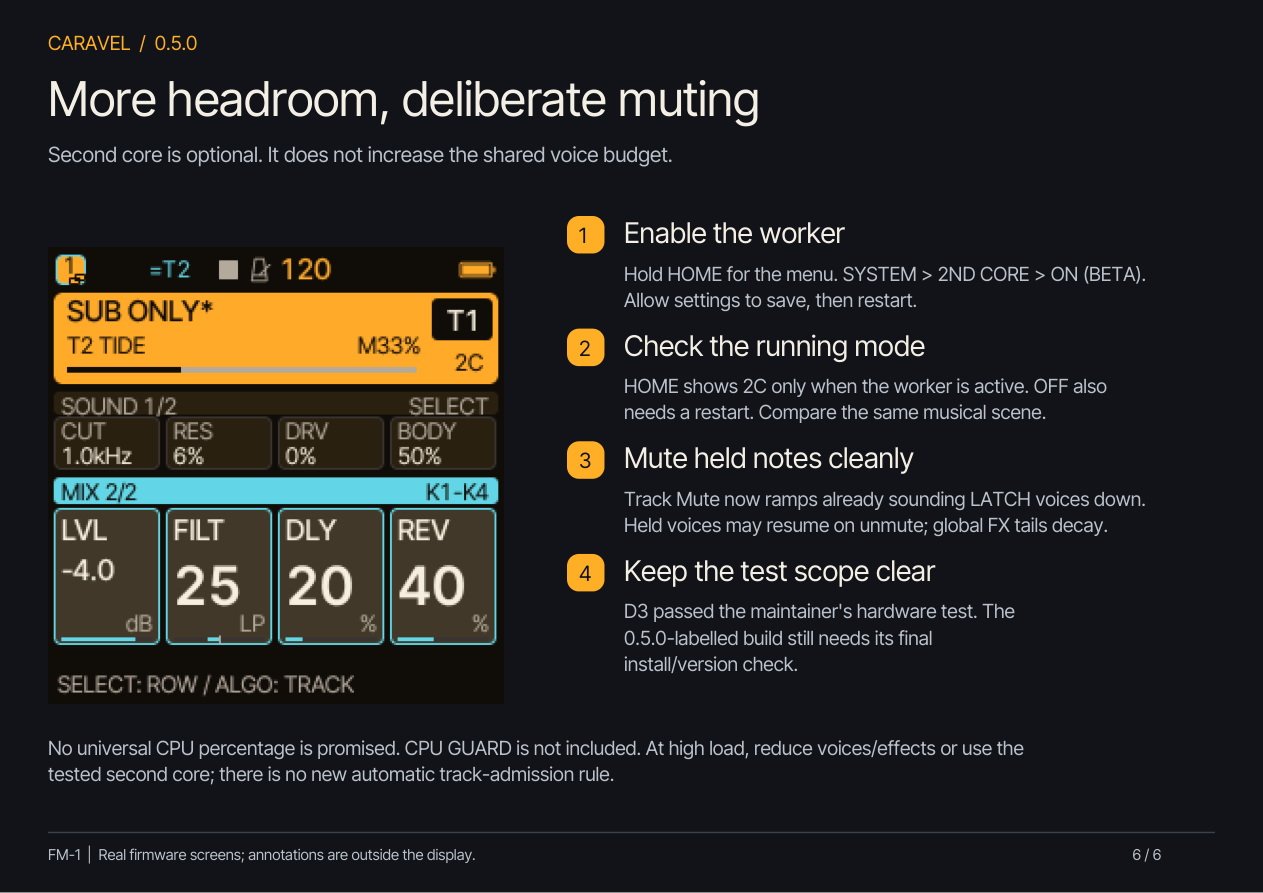
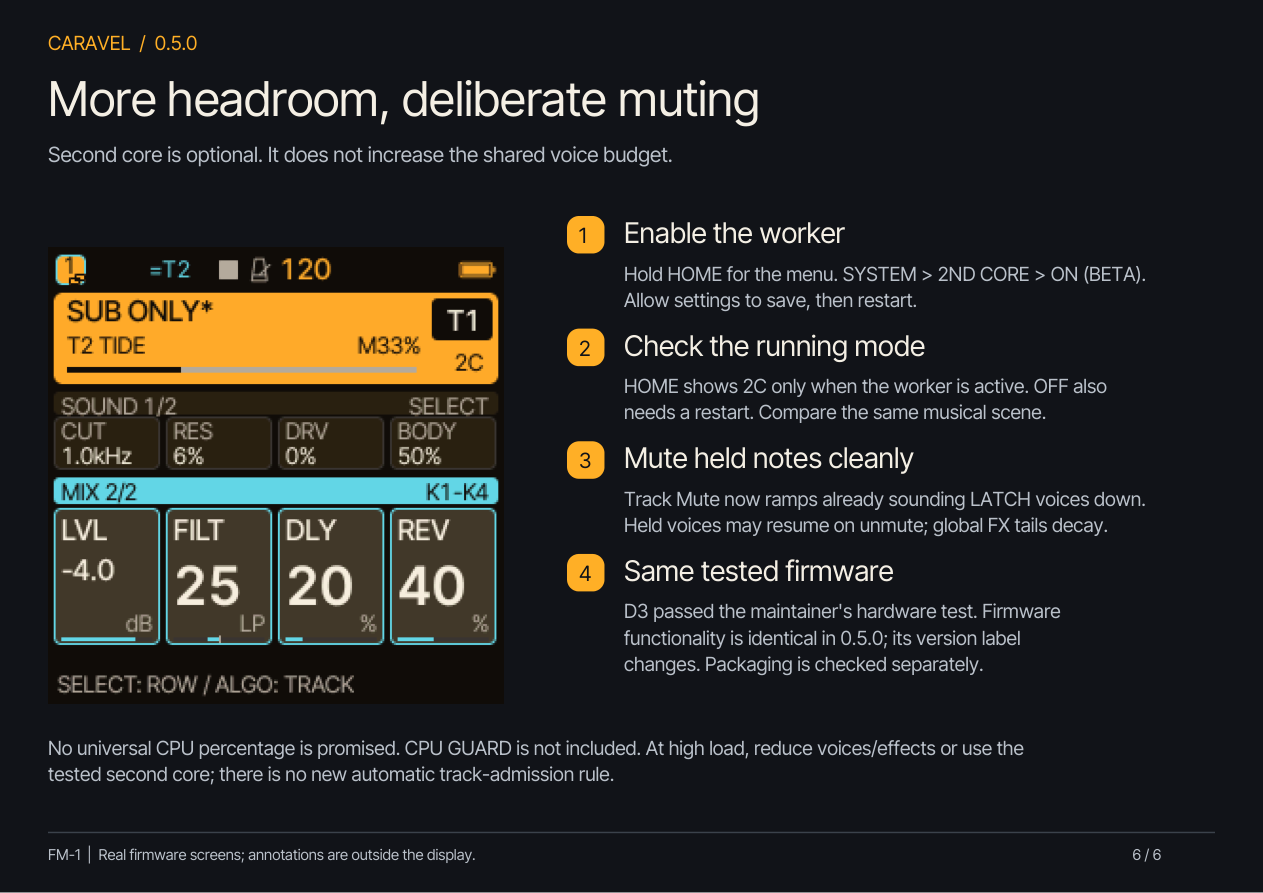
Finalize 0.5.0 release documentation and add DRONE showcase beside SEM and HADES

Changed region(s): [[0.4941, 0.6652, 0.8337, 0.7559], [0.4941, 0.6047, 0.7411, 0.6652]]

diff --git a/README.md b/README.md
@@ -2,11 +2,9 @@
 
 [![License: GPL-3.0-only](https://img.shields.io/badge/license-GPL--3.0--only-blue.svg)](LICENSE)
 
-Multi-engine synthesizer firmware for the M-VAVE FM-1, **version 0.5.0 in preparation** (latest public release: 0.3.3).
+Multi-engine synthesizer firmware for the M-VAVE FM-1, **version 0.5.0**.
 
 **[Web installer](https://bonszaimusic.github.io/caravel/webapp/installer/)** · **[Browser emulator](https://bonszaimusic.github.io/caravel/emulator/)** · **[Web editor](https://bonszaimusic.github.io/caravel/webapp/editor/)**
-
-These links become available after the first successful GitHub Pages deployment.
 
 Caravel is a fork of **Felucca 1.6.1** by Leo Kuroshita ([@kurogedelic](https://github.com/kurogedelic)) and
 [Hügelton Instruments](https://hugelton.com), continued independently by bonszaimusic now that Felucca's active development
@@ -16,10 +14,14 @@ comes from. See [NOTICE](NOTICE), [LICENSING.md](LICENSING.md) and [CREDITS.md](
 
 ## Watch and listen
 
-[![M-VAVE FM-1: Hades & SEM-Inspired Sounds (YouTube)](https://img.youtube.com/vi/rfY23zoBgzQ/hqdefault.jpg)](https://youtu.be/rfY23zoBgzQ)
+<table>
+<tr>
+<td width="50%" align="center"><a href="https://www.youtube.com/watch?v=rfY23zoBgzQ"><img src="https://img.youtube.com/vi/rfY23zoBgzQ/hqdefault.jpg" width="420" alt="M-VAVE FM-1: Hades and SEM-inspired sounds"></a><br><strong>SEM &amp; HADES</strong><br>Sound showcase (recorded before the Caravel rename)</td>
+<td width="50%" align="center"><a href="https://www.youtube.com/watch?v=N08Vx3x7fLE"><img src="https://img.youtube.com/vi/N08Vx3x7fLE/hqdefault.jpg" width="420" alt="M-VAVE FM-1 Caravel: Lyra Inspired Drone Engine Demo"></a><br><strong>DRONE</strong><br>Lyra-inspired DRONE engine demo</td>
+</tr>
+</table>
 
-Sounds of the SEM and HADES engines on the FM-1 (recorded before the rename). More videos on the maintainer's channel:
-[BonszaiMusic on YouTube](https://www.youtube.com/@bonszaimusic).
+More videos: [BonszaiMusic on YouTube](https://www.youtube.com/@bonszaimusic).
 
 ## New performance workflow in 0.5.0
 

diff --git a/CHANGELOG.md b/CHANGELOG.md
@@ -6,7 +6,7 @@ Hügelton Instruments (see [NOTICE](NOTICE)): it grew out of the author's use of
 release notes are in its wiki. Features that come from other people's work name their authors. Nothing here is tested on a real FM-1
 unless it says so; host tests and simulations are not hardware measurements.
 
-## [0.5.0] - prepared, not published
+## [0.5.0] - 2026-10-25
 
 ### Added
 - **A performance HOME for each track:** up to 32 rows of four references. Turn a
@@ -55,10 +55,11 @@ unless it says so; host tests and simulations are not hardware measurements.
 ### Compatibility and validation
 - Sound presets are not complete performance projects. Use matching tools for
   complete backups; older firmware cannot restore the HOME/Macro/Pair layer.
-- The maintainer reports the D3 hardware test passed. That is evidence for the
-  tested D3 package, not an installation test of the 0.5.0-labelled package.
+- The maintainer reports the D3 hardware test passed. The 0.5.0 firmware sources
+  retain that functional code; only the version label/comment changes.
 - CPU GUARD and the separate V11 silent-FX experiment are not included.
-- Release publication remains pending the private development checks and review.
+- Full hosted CI passed for the functional candidate, including the inherited
+  regression suite, installer preview and browser emulator build.
 
 ## [0.3.3] — 2026-10-20
 

diff --git a/RELEASE-NOTES.md b/RELEASE-NOTES.md
@@ -1,6 +1,6 @@
 # Caravel 0.5.0 - Build your performance
 
-Prepared release notes; 0.5.0 is not published yet.
+Release 0.5.0, 25 October 2026.
 
 Bring the controls you need onto HOME, combine movements with four macros per
 track, and morph between two linked sounds with Pair Morph. The active HOME row
@@ -19,7 +19,7 @@ Before upgrading, make a complete backup with matching tools. A-D projects inclu
 HOME, macros and Pair; individual sound presets do not. Older firmware cannot
 restore the new performance layer. A downgrade needs its own compatible backup.
 
-The D3 candidate passed the maintainer's hardware test. The final version-labelled
-package, hosted CI and publication review are separate checks. No fixed CPU saving
+The D3 candidate passed the maintainer's hardware test. Firmware functionality is
+identical in 0.5.0; the version label changes. Release packaging is checked separately. No fixed CPU saving
 or guaranteed track count is advertised. CPU GUARD and the V11 silent-FX experiment
 are outside this release.

diff --git a/docs/tutorials/README.md b/docs/tutorials/README.md
@@ -2,8 +2,7 @@
 
 [Download the six-page PDF](Caravel-0.5.0-Quickstart.pdf). Every screen below comes
 from the actual firmware renderer; explanatory labels are outside the display.
-This is documentation for 0.5.0 in preparation. The latest published version stays
-0.3.3 until release approval.
+These tutorials describe Caravel 0.5.0.
 
 ## 1. Read and play HOME
 
@@ -70,5 +69,5 @@ and Pair events use a bounded performance pool and are not shown in the native
 event-list editor. Performance locks use assigned HOME cells; not every HOME target
 gains automation. No freely named rows/cells, cross-track macro routes, CPU GUARD,
 or V11 silent-FX experiment are included. No universal CPU percentage is promised.
-The maintainer reports D3 passed hardware testing; the final 0.5.0-labelled package
-still requires its install/version acceptance check.
+The maintainer reports D3 passed hardware testing. The 0.5.0 firmware retains
+that functional code and changes its version label; packaging is checked separately.
